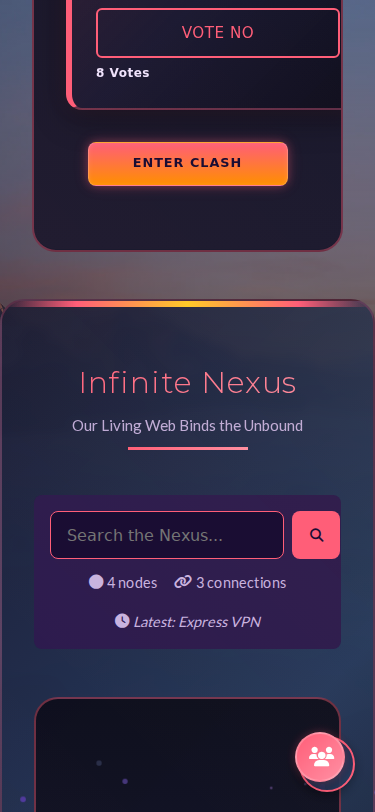
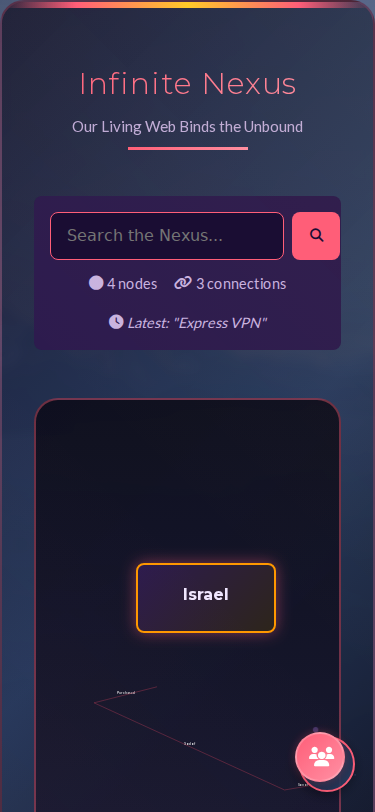
fix: center canvas to show all nodes and improve text consistency
- Simplify centering logic: always center canvas in viewport
- This shows the middle of the node network on initial load
- Improve node text styling: consistent margins, font-size, word wrapping
- Remove margin-bottom from h4 to prevent layout shifts
- Add word-wrap and overflow-wrap for long node titles

🤖 Generated with [Claude Code](https://claude.com/claude-code)

diff --git a/front/index.html b/front/index.html
@@ -63,7 +63,7 @@
     <link rel="stylesheet" href="css/critical.css?v=7.9">
     
     <!-- 3. GLOBAL STYLES - Site-wide styles loaded synchronously -->
-    <link rel="stylesheet" href="css/styles.css?v=7.9">
+    <link rel="stylesheet" href="css/styles.css?v=8.0">
     
     <!-- 4. PROGRESSIVE LOADING - Non-critical CSS loaded asynchronously -->
     <link rel="preload" href="css/layout.css?v=8.5" as="style" onload="this.onload=null;this.rel='stylesheet'">
@@ -86,8 +86,8 @@
     <noscript><link rel="stylesheet" href="css/unified-modals.css?v=2.0"></noscript>
     
     <!-- 6. SHARED COMPONENTS (lazy loaded) -->
-    <link rel="preload" href="components/shared/styles.css?v=7.9" as="style" onload="this.onload=null;this.rel='stylesheet'">
-    <noscript><link rel="stylesheet" href="components/shared/styles.css?v=7.9"></noscript>
+    <link rel="preload" href="components/shared/styles.css?v=8.0" as="style" onload="this.onload=null;this.rel='stylesheet'">
+    <noscript><link rel="stylesheet" href="components/shared/styles.css?v=8.0"></noscript>
     
     <!-- 7. PAGE-SPECIFIC (lazy loaded) -->
     <link rel="preload" href="components/shared/active-users.css?v=2.1" as="style" onload="this.onload=null;this.rel='stylesheet'">
@@ -513,7 +513,7 @@
     <script src="components/shared/activeUsers.js?v=2.3"></script>
     <script src="components/shared/messageModal.js?v=6.9"></script>
     <script src="js/main.js?v=3.6"></script>
-    <script src="js/mindmap-preview.js?v=2.0"></script>
+    <script src="js/mindmap-preview.js?v=2.1"></script>
     
     <!-- Optimized Hero Particles - Hardware Accelerated -->
     <script src="js/particleSystem.js?v=1.0"></script>

diff --git a/front/js/mindmap-preview.js b/front/js/mindmap-preview.js
@@ -233,25 +233,10 @@ class MindmapPreview {
         const { canvasWidth, canvasHeight } = this.canvasBounds;
         const containerRect = this.container.getBoundingClientRect();
 
-        // Calculate offset to center the canvas in the viewport
-        // If canvas is smaller than viewport, center it
-        // If canvas is larger, show from the left/top
-        let offsetX = 0;
-        let offsetY = 0;
-
-        if (canvasWidth < containerRect.width) {
-            offsetX = (containerRect.width - canvasWidth) / 2;
-        } else {
-            // Start from left edge with small offset
-            offsetX = 20;
-        }
-
-        if (canvasHeight < containerRect.height) {
-            offsetY = (containerRect.height - canvasHeight) / 2;
-        } else {
-            // Start from top with small offset
-            offsetY = 20;
-        }
+        // Always center the canvas content in the viewport
+        // This shows the middle of the node network on initial load
+        const offsetX = (containerRect.width - canvasWidth) / 2;
+        const offsetY = (containerRect.height - canvasHeight) / 2;
 
         // Apply initial transform
         this.panOffsetX = offsetX;

diff --git a/front/css/styles.css b/front/css/styles.css
@@ -1745,9 +1745,12 @@ body.light-theme .nexus-avatar {
 }
 
 .mindmap-preview-node h4 {
-    margin: 0 0 0.5rem 0;
-    font-size: 1rem;
+    margin: 0;
+    font-size: 0.95rem;
     font-weight: 600;
+    line-height: 1.3;
+    word-wrap: break-word;
+    overflow-wrap: break-word;
 }
 
 .mindmap-preview-node .node-score {
